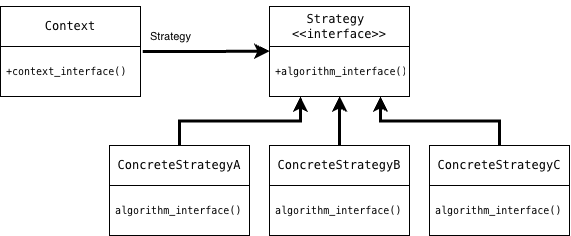
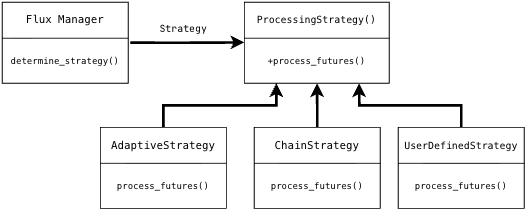
update the papers to have the newest figures

Changed region(s): [[0.0, 0.0, 1.0, 1.0]]

diff --git a/paper/paper.md b/paper/paper.md
@@ -31,9 +31,7 @@ repository: https://github.com/FredDude2004/MatEnsemble
 
 ## Summary
 
-MatEnsemble is a Python package for defining and running high-throughput workflows inside high-performance computing (HPC) allocations. Users construct a directed acyclic graph (DAG) of *chores*, where each chore is either a delayed python function call or an executable command, each with explicit resource requirements. MatEnsemble submits these chores through the Flux resource manager, tracks completion, resolves dependencies through serialized results, and records workflow state in a structured layout. The package is designed for <INSERT SCIENCE CASES HERE> where launching one batch job per task would create excessive scheduler overhead or leave resources idle.
-
-The main user interface is the `Pipeline` object. Decorated Python functions become delayed calls that return `OutputReference` placeholders, passing those placeholders into later chores creates dependency edges. Executable chores can also be added for external programs. At submission time, MatEnsemble validates the dependency graph, submits ready chores that fit the available resources, and continues scheduling until the workflow has no ready, running, or blocked chores. Each run writes logs, standard output and error files for each chore, chore metadata, Python return values, and a status file that can optionally drive a lightweight dashboard.
+MatEnsemble is a Python package for defining and running high-throughput workflows on high-performance computing (HPC) systems. Users construct a directed acyclic graph (DAG) of *chores*, where each chore is either a delayed python function call or an executable command, each with explicit resource requirements. MatEnsemble submits these chores through the Flux resource manager, tracks completion, resolves dependencies through serialized results, and records workflow state in a structured layout. The package is designed for <INSERT SCIENCE CASES HERE> where launching one batch job per task would create excessive scheduler overhead or leave resources idle.
 
 ## Statement of need
 
@@ -46,6 +44,30 @@ MatEnsemble addresses these challenges by combining a Python-native workflow int
 
 ![Adaptive Workflow Management](./figures/adaptive_vs_non_adaptive.png)
 
+Workflows may consist of Python functions, MPI applications, shell commands, or combinations thereof. For example, a user may define an MPI-enabled chore that launches multiple ranks through Flux while still participating in the same dependency-aware workflow:
+
+```python
+from matensemble.pipeline import Pipeline
+from mpi4py import MPI
+
+pipe = Pipeline()
+
[email redacted](num_tasks=10, cores_per_task=1, mpi=True)
+def mpi_helloworld():
+    size = MPI.COMM_WORLD.Get_size()
+    rank = MPI.COMM_WORLD.Get_rank()
+    name = MPI.Get_processor_name()
+
+    print(f"Hello World! I am process {rank} of {size} on {name}.")
+
+for _ in range(10):
+    mpi_helloworld()
+
+pipe.submit()
+```
+
+Each invocation becomes an independent Flux job while remaining under the control of the workflow manager and sharing the same allocation.
+
 Unlike many existing scientific workflow systems that rely on external databases, centralized services, or privileged scheduler interactions, MatEnsemble is designed as a lightweight Python library that operates entirely within the user's allocation. Workflows are expressed as directed acyclic graphs of Python callables or executable tasks, with declarative resource requirements attached to each task. The framework leverages Flux's scalable user-space scheduling architecture while exposing a familiar Python programming model for workflow construction and execution.
 
 A distinguishing feature of MatEnsemble is its support for user-defined scheduling strategies. In addition to the built-in adaptive scheduler, users may inject custom workflow logic capable of dynamically generating new tasks during execution based on intermediate results. This enables the construction of dynamically expanding scientific workflows and active-learning loops.
@@ -57,21 +79,46 @@ The target users are computational scientists and HPC developers who need to com
 
 Several mature Python workflow systems already support scientific task graphs. Parsl provides a broad parallel scripting model for Python functions and external applications across local, cluster, cloud, and grid resources [@babuji2019parsl; @parsl_docs]. Jobflow provides a Pythonic decorator-based workflow model aimed at high-throughput computational workflows, with strong adoption in materials science [@rosen2024jobflow]. libEnsemble focuses on dynamic ensembles using a generator-simulator-allocator model, particularly for adaptive sampling and optimization campaigns [@hudson2025libensemble]. These systems demonstrate the value of Python-native workflows for computational science, and MatEnsemble is complementary rather than a replacement.
 
+## Example workflow
+
+The primary user interface in MatEnsemble is the `Pipeline` object. Python functions decorated with `@pipe.chore()` become delayed function calls that return `OutputReference` objects rather than executing immediately. These references can be passed into later chores, allowing MatEnsemble to infer dependencies automatically and construct a directed acyclic graph (DAG). The example below computes the factorial of 100 and then computes the digit sum of the resulting value. The dependency between the two chores is inferred from the `OutputReference` returned by the first call.
+
+```python
+from matensemble.pipeline import Pipeline
+
+pipe = Pipeline()
+
[email redacted]()
+def factorial(n):
+    result = 1
+    for i in range(2, n + 1):
+        result *= i
+    return result
+
[email redacted]()
+def digit_sum(n):
+    return sum(int(x) for x in str(n))
+
+a = factorial(100)
+b = digit_sum(a)
+
+pipe.submit()
+```
+
+Internally, MatEnsemble transforms workflows such as this into a DAG of chores, validates dependencies, serializes the workflow state, and executes eligible tasks through Flux as resources become available.
+
+
 ## Software design
+
+MatEnsemble separates workflow definition, scheduling, and execution into distinct components. Users construct workflows through the Pipeline API, which records delayed chores and dependency relationships. During submission, the workflow is validated, serialized, and handed to a FluxManager instance that coordinates execution through Flux.
+
+![Workflow Lifecycle](./figures/workflow_lifecycle.drawio.png)
 
 MatEnsemble’s architecture is centered on a separation between workflow definition, scheduling, execution. The user process constructs a graph of delayed chores through the Pipeline API, while FluxManager owns runtime state such as blocked, ready, running, completed, and failed chore sets. Individual chores are submitted through Flux as independent jobs. For Python chores, this separation creates a reconstruction problem. Callables defined in the user’s Python process are not available by memory reference inside a fresh worker process launched by Flux.
 
 ![Problem with Python Callables and Flux](./figures/matensemble_flux_problem_chart.png)
 
 MatEnsemble solves this by writing callable registry entries and per-chore specifications into the workflow directory, allowing runtime_worker to reload the chore, resolve dependency outputs, execute the callable, and write a result artifact for downstream chores.
-
-<!-- technical contributions: -->
-<!---->
-<!-- * Flux-native adaptive back-filling rather than static waves of jobs. -->
-<!-- * Pythonic DAG construction using delayed functions and OutputReference. -->
-<!-- * Remote Python chore reconstruction through registry + per-chore artifacts. -->
-<!-- * Strategy-pattern completion handling that makes adaptive, non-adaptive, and user-defined behavior interchangeable. -->
-<!-- * Dynamic workflow expansion through UserStrategy and ChoreSpec, which is the most novel architecture idea. -->
 
 During workflow construction, Pipeline.chore records Python function calls and Pipeline.exec records executable commands. When one chore uses the output of another, MatEnsemble automatically detects this relationship and creates a dependency link between the two chores. Before execution begins, MatEnsemble builds a directed acyclic graph (DAG) representing the workflow, verifies that all dependencies are valid, and topologically sorts the graph to determine the correct execution order.
 
@@ -98,17 +145,74 @@ For Python chores, the original function definitions are serialized into a centr
                └── ...
 ```
 
-At runtime, `FluxManager` owns the ready, blocked, running, completed, and failed chore sets. It obtains a Flux handle, measures currently free cores and GPUs, and repeatedly executes a scheduling loop: refresh resources, write status, submit every ready chore that fits, process completed Flux futures, unblock downstream chores, and repeat. Python chores are launched through `matensemble.runtime_worker`, which reloads a serialized chore specification, loads the registered function, and loads upstream results, substitutes them for `OutputReference` placeholders, executes the function, and writes the return value to `result.pickle`. This architecture trades some serialization overhead for a clear boundary between the driver and worker processes, making each chore's command, metadata, stdout, stderr, and result inspectable on disk.
+At runtime, `FluxManager` owns the ready, blocked, running, completed, and failed chore sets. The manager continuously monitors resource availability, submits ready chores that fit within the allocation, processes completed tasks, updates dependency information, and unblocks newly eligible work. This scheduling loop continues until no ready, running, or blocked chores remain.
 
-![Manager Loop](./figures/manager_flow_chart.png)
+![Manager Loop](./figures/manager_flow_chart.drawio.png)
 
-The scheduler uses the *strategy pattern* for future processing. The Strategy Pattern is a behavioral software design pattern that defines a family of algorithms, encapsulates each one in a separate class, and makes them interchangeable at runtime.
+The scheduler uses the *strategy pattern* to separate completion handling logic from the core scheduling loop. A strategy determines how completed chores are processed and how newly available work is admitted into the workflow.
 
-![Strategy Pattern](./figures/strategy_pattern_chart.png)
+![Strategy Pattern](./figures/strategy_pattern_chart.drawio.png)
 
-The default adaptive strategy attempts to submit newly unblocked tasks immediately as resources become available, while the non-adaptive strategy follows a simpler wave-based execution model. Users may also inject custom scheduling strategies into the FluxManager at runtime. A user-defined strategy looks at completed chores and if they are on in a list of chores to Be On the Look-Out (BOLO) for it will spawn the callback chore and can inspect the results of a completed Python chore and return a ChoreSpec describing additional work to be performed. MatEnsemble then dynamically adds the new chore to the workflow and schedules it when its dependencies are satisfied. This allows workflows to expand during execution based on intermediate results, enabling adaptive and data-driven computational campaigns.
+The default adaptive strategy attempts to submit newly unblocked chores immediately as resources become available, helping maintain high utilization within a running allocation. The non-adaptive strategy provides a simpler wave-based execution model in which newly eligible chores are submitted during the next scheduling cycle.
 
-<!-- ![User Defined Strategies Flow Chart](put the figure here once you have it) -->
+MatEnsemble also supports user-defined strategies. These strategies can inspect the results of completed Python chores and dynamically generate additional work during execution. This capability enables adaptive parameter searches, active-learning workflows, iterative optimization campaigns, and other data-driven scientific applications where the total amount of work is not known in advance.
+
+### Dynamic workflow expansion
+
+User-defined strategies allow workflows to expand dynamically during runtime. A strategy may inspect the result of a completed chore and return a `ChoreSpec` describing new work to be added to the workflow. The new chore is validated, inserted into the dependency graph, and scheduled like any other task.
+
+The example below implements a simple binary search. Each completed `guess` chore produces a result that is examined by a user-defined strategy. Based on that result, the strategy generates another `guess` chore until the target value is found.
+
+```python
[email redacted]()
+def guess(lower: int, upper: int, guess_num: int = 1) -> dict:
+    return {
+        "guess": ((lower + upper) // 2),
+        "low": lower,
+        "high": upper,
+        "num_guesses": guess_num,
+    }
+
+
+answer = random.randint(1, 100)
+bolo_list = ["guess"]
+
+
[email redacted](bolo_list=bolo_list)
+def higher_or_lower(guess_result, ans=answer):
+
+    if guess_result["guess"] == ans:
+        print(
+            f"Good Job! I was thinking of {ans}, "
+            f"and you got it in {guess_result['num_guesses']}"
+        )
+
+    elif guess_result["guess"] < ans:
+        return ChoreSpec(
+            args=(
+                guess_result["guess"] + 1,
+                guess_result["high"],
+                guess_result["num_guesses"] + 1,
+            ),
+            kwargs=None,
+            resources=Resources(),
+            qualname="guess",
+        )
+
+    else:
+        return ChoreSpec(
+            args=(
+                guess_result["low"],
+                guess_result["guess"] - 1,
+                guess_result["num_guesses"] + 1,
+            ),
+            kwargs=None,
+            resources=Resources(),
+            qualname="guess",
+        )
+```
+
+This mechanism allows MatEnsemble workflows to adapt their execution path based on intermediate results rather than requiring the entire workflow graph to be known before execution begins.
 
 ## Research impact
 

diff --git a/docs/source/installation.rst b/docs/source/installation.rst
@@ -149,8 +149,20 @@ sure you are in your $SCRATCH space to make sure you have enough room for the sa
     # Example of building a sandbox for Frontier
     apptainer build --sandbox matensemble_sandbox docker://ghcr.io/freddude2004/matensemble:frontier-vX.Y.Z
 
+.. note::
+   If building a sandbox is taking too long you can split it into multiple stages to speed things up.
 
-You can run your workflows interactively in flux quite simply:
+.. code-block:: bash
+
+   # first clean the cache to start fresh
+   apptainer cache clean
+
+   apptainer pull image.sif docker://ghcr.io/freddude2004/matensemble:frontier-vX.Y.Z
+
+   apptainer build ./matensemble_sand image.sif
+
+
+After building your container you can run your workflows interactively in flux quite simply:
 
 .. code-block:: bash
 